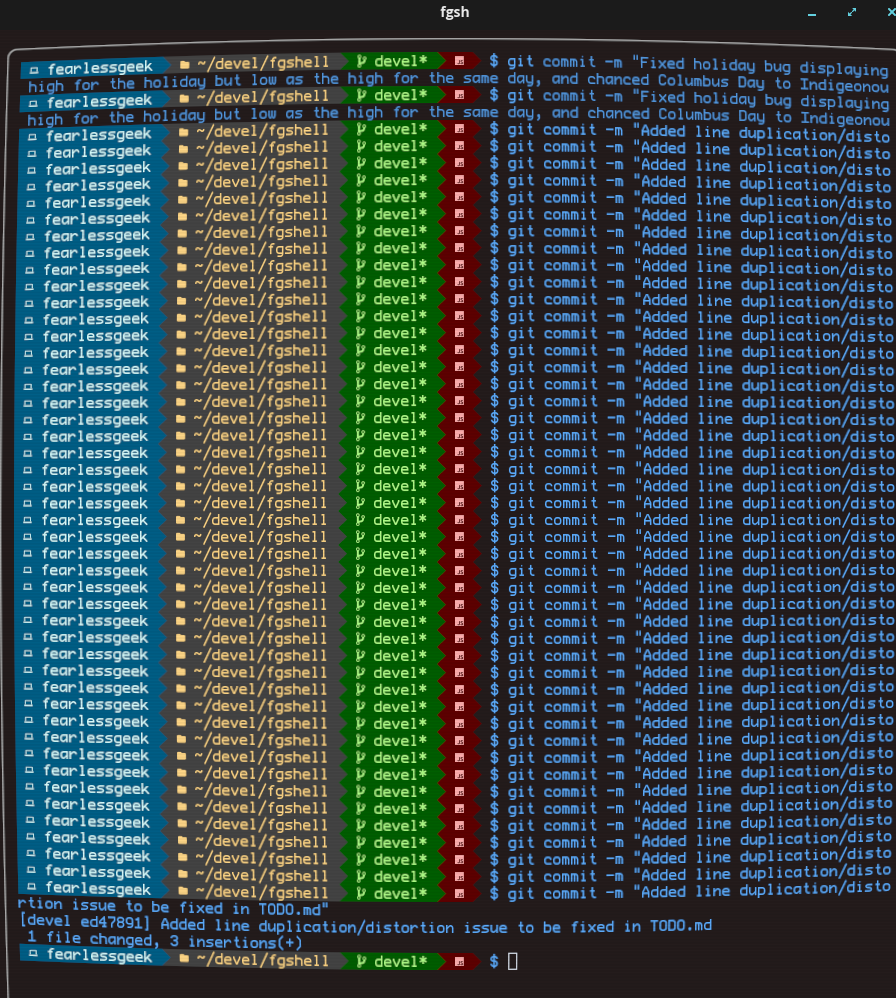
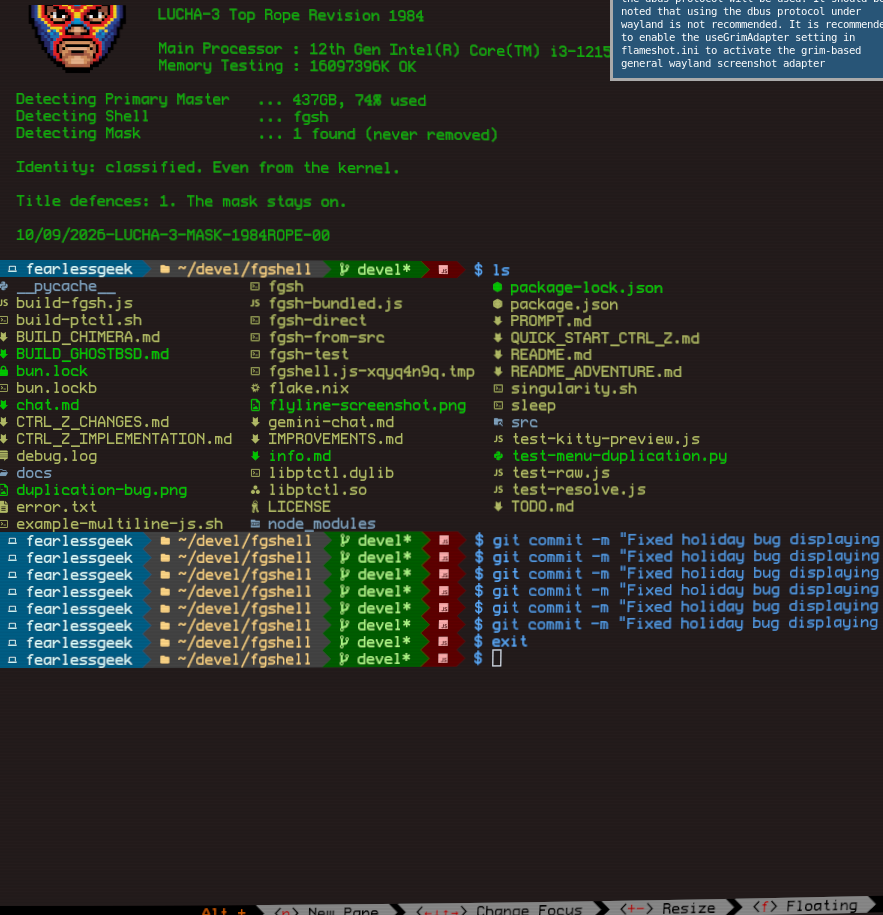
Fixed line duplicaton bug again, updated documennts

diff --git a/README.md b/README.md
@@ -41,6 +41,7 @@ If you need POSIX compliance, use bash or sh. fgshell is for developers who want
 ### Standard Shell Features
 - **Command execution** with proper process spawning
 - **Pipes and redirection**: `|`, `>`, `>>`, `<`
+- **Clipboard integration**: `ls | clip` copies a command's output to the system clipboard, working on Wayland (`wl-copy`), X11 (`xclip`/`xsel`), and macOS (`pbcopy`)
 - **Background jobs**: `cmd &` and `jobs`, `fg`, `bg` builtins
 - **Environment variables**: `$VAR` and `${VAR}` expansion
 - **Command substitution**: `$(command)` and arithmetic `$((expr))`
@@ -55,7 +56,7 @@ If you need POSIX compliance, use bash or sh. fgshell is for developers who want
 - **Here-documents** with `<<EOF` (in scripts, files loaded with `source`, and `~/.fgshrc`)
 - **Signal traps** with `trap` command
 - **Sourcing**: `source file` to run a script in the current shell
-- **Built-in commands**: `cd`, `mkcd`, `pwd`, `clear`, `echo`, `ls`, `cat`, `printf`, `export`, `unset`, `env`, `history`, `alias`, `unalias`, `source`, `declare`, `read`, `test`/`[`, `trap`, `jobs`, `fg`, `bg`, `true`, `false`, `exit`, `js`
+- **Built-in commands**: `cd`, `mkcd`, `pwd`, `clear`, `echo`, `ls`, `cat`, `clip`, `printf`, `export`, `unset`, `env`, `history`, `alias`, `unalias`, `source`, `declare`, `read`, `test`/`[`, `trap`, `jobs`, `fg`, `bg`, `true`, `false`, `exit`, `js`
 - **Helpful error messages** with file:line references and source code snippets in scripts
 
 ## Building

diff --git a/docs/FGSH.md b/docs/FGSH.md
@@ -167,6 +167,7 @@ Available builtins:
 - `echo` / `printf` - output text
 - `cd` / `mkcd` / `pwd` / `clear` - directory and terminal management
 - `ls` / `cat` - file listing and concatenation
+- `clip` - copy standard input to the system clipboard (Wayland `wl-copy`, X11 `xclip`/`xsel`, or macOS `pbcopy`)
 - `export` / `unset` / `env` - environment variables
 - `declare` - display arrays/variables
 - `alias` / `unalias` - command shortcuts
